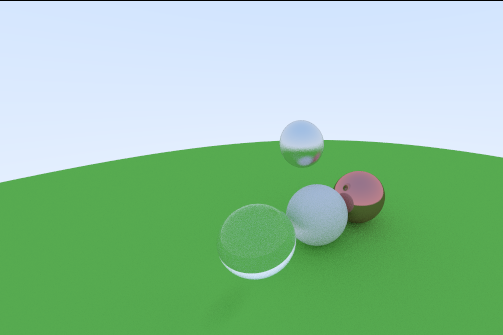
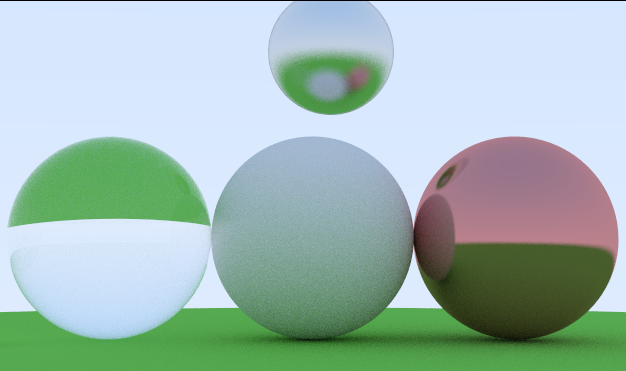
zoom controls

diff --git a/main.c b/main.c
@@ -118,7 +118,7 @@ int main() {
 
 		// camera movement
 		// wasd + q for up and z for down
-		Vector3 camera_delta = vec3(0,0,0);
+		Vector3 camera_delta = vec3(0,0,0); // TODO: convert delta from screen space to world space
 		if (IsKeyDown(KEY_W)) {
 			camera_delta.z -= 0.1;
 		}
@@ -154,8 +154,14 @@ int main() {
 		}
 
 		double fov_delta = 0;
+		if (IsKeyDown(KEY_T)) {
+			fov_delta -= 1;
+		}
+		if (IsKeyDown(KEY_R)) {
+			fov_delta += 1;
+		}
 
-		if (Vector3Length(camera_delta) != 0 || Vector3Length(camera_lookat_delta) != 0) {
+		if (Vector3Length(camera_delta) != 0 || Vector3Length(camera_lookat_delta) != 0 || fov_delta != 0) {
 			Camera_update(
 				&(world.camera),
 				Vector3Add(world.camera.origin, camera_delta),
